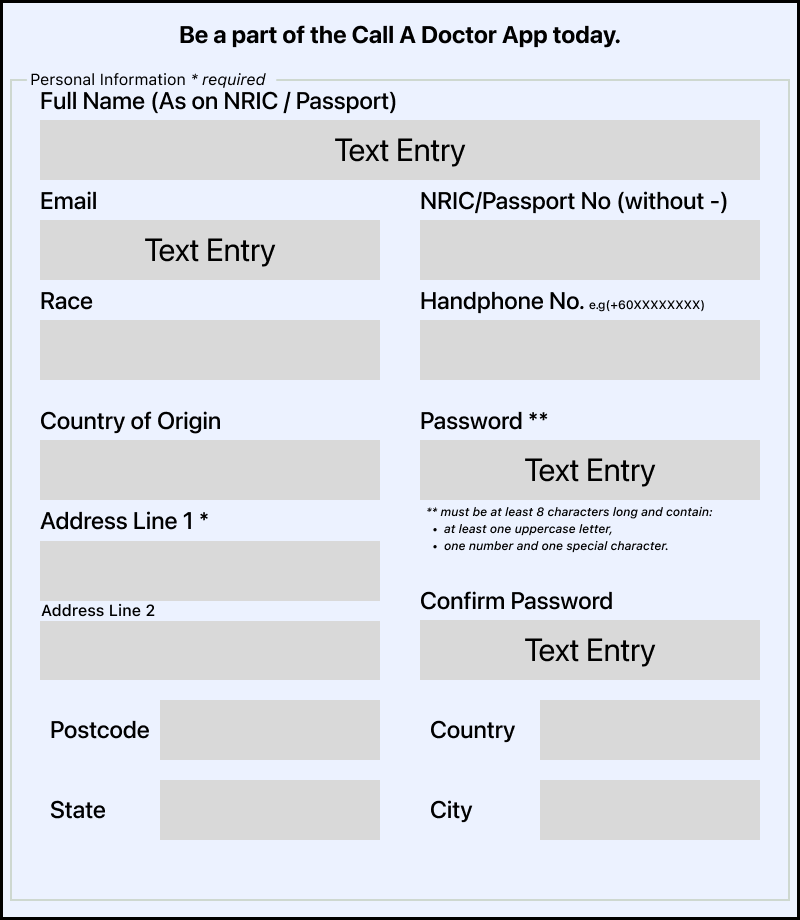
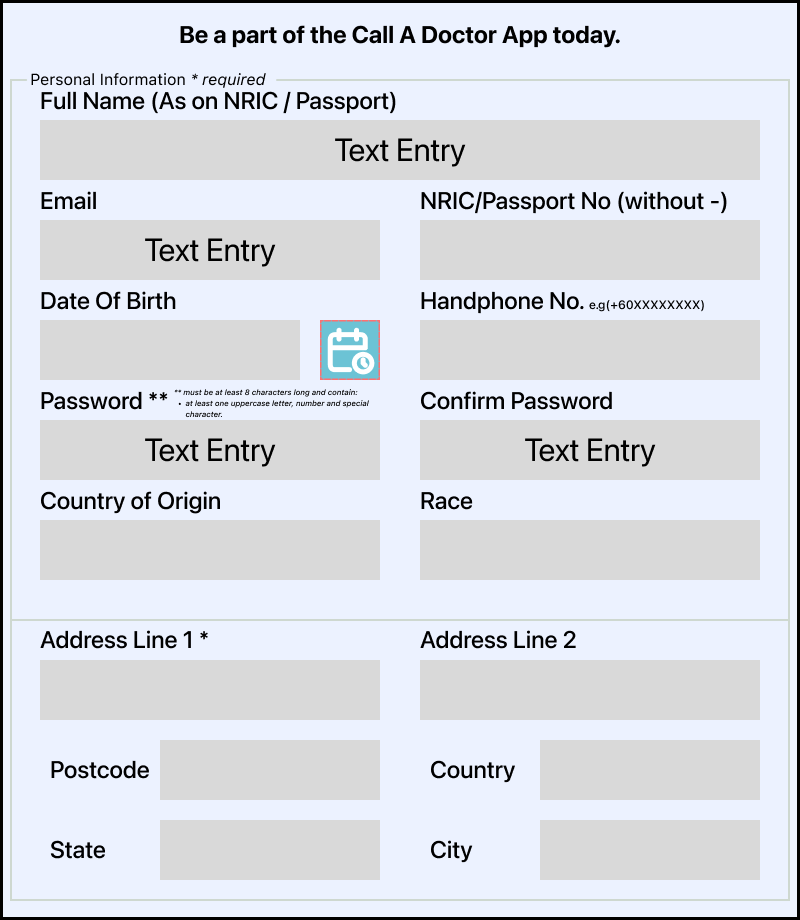
reworking registration form entries

Changed region(s): [[0.0312, 0.3348, 0.9688, 0.9739], [0.0625, 0.3043, 0.2188, 0.3348]]

diff --git a/views/registration.py b/views/registration.py
@@ -9,6 +9,8 @@ from ttkbootstrap.toast import ToastNotification
 from resource.static import *
 from resource.basewindow import ElementCreator, gridGenerator
 from views.citystatesdict import states_dict
+from ttkbootstrap.dialogs import DatePickerDialog, Querybox
+from datetime import datetime as dt
 # from components.animatedgif import AnimatedGif
 # from captcha.image import ImageCaptcha
 # from components.animatedgif import AnimatedGif
@@ -53,24 +55,35 @@ class RegistrationPage(Frame):
         ]
         self.controller.settingsUnpacker(self.staticImgLabels, "label")
         self.controller.settingsUnpacker(self.staticBtns, "button")
-
+        self.dateOfBirthEntry = self.controller.ttkEntryCreator(
+            x=40, y=320, width=260, height=60, root=self.frameref, classname="regbirthdate"
+        )
         self.userRegEntries = [
             (40, 120, 720, 60, self.frameref, "regfullname"),
             (40, 220, 340, 60, self.frameref, "regemail", "isEmail"),
-            (420, 220, 340, 60, self.frameref,
-             "regnric"),
-            (40, 320, 340, 60, self.frameref, "regrace"),
+            (420, 220, 340, 60, self.frameref, "regnric"),
+            (40, 320, 260, 60, self.frameref, "regbirthdate"),
             (420, 320, 340, 60, self.frameref, "regcontactnumber", "isContactNo"),
-            (40, 440, 340, 60, self.frameref, "countryoforigin"),
-            (420, 440, 340, 60, self.frameref, "regpassent", "isPassword"),
-            (420, 620, 340, 60, self.frameref, "regconfpassent", "isConfPass"),
-            (40, 540, 340, 60, self.frameref, "regaddressline1"),
-            (40, 620, 340, 60, self.frameref, "regaddressline2"),
-            (160, 700, 220, 60, self.frameref, "regpostcode", "isPostcode"),
+            (40, 420, 340, 60, self.frameref, "regpassent", "isPassword"),
+            (420, 420, 340, 60, self.frameref, "regconfpassent", "isConfPass"),
+            (40, 520, 340, 60, self.frameref, "countryoforigin"),
+            (420, 520, 340, 60, self.frameref, "regrace"),
+            (40, 660, 340, 60, self.frameref, "regaddressline1"),
+            (420, 660, 340, 60, self.frameref, "regaddressline2"),
+            (160, 740, 220, 60, self.frameref, "regpostcode", "isPostcode"),
         ]
         for i in self.userRegEntries:
             self.controller.ttkEntryCreator(**self.tupleToDict(i))
         WD = self.controller.widgetsDict
+        self.datePicker = self.controller.buttonCreator(
+            ipath="assets/Registration/DatePicker.png",
+            x=320, y=320, classname="datepicker", root=self.frameref,
+            buttonFunction=lambda: self.selectDate(self.datePicker)
+        )
+
+        self.dobMsg = "Select Date of Birth"
+        self.dateOfBirthEntry.insert(0, self.dobMsg)
+        self.dateOfBirthEntry.config(state=READONLY)
         self.fullname, self.email, self.nric_passno = WD["regfullname"], WD["regemail"], WD["regnric"]
         self.race, self.contactnumber, self.countryoforigin = WD[
             "regrace"], WD["regcontactnumber"], WD["countryoforigin"]
@@ -80,7 +93,7 @@ class RegistrationPage(Frame):
         self.country, self.state, self.city = StringVar(), StringVar(), StringVar()
         list = {
             "country": {
-                "pos": {"x": 540, "y": 700, "width": 220, "height": 60},
+                "pos": {"x": 540, "y": 740, "width": 220, "height": 60},
                 "listofvalues": ["Malaysia", "Others"],
                 "variable": self.country,
             }
@@ -92,6 +105,37 @@ class RegistrationPage(Frame):
                 variable=v["variable"], font=("Helvetica", 12),
                 command=lambda: [self.loadStateMenubuttons(self.country.get())]
             )
+
+    def selectDate(self, btn):
+        self.dateOfBirthEntry.configure(foreground="black")
+        year = Querybox.get_integer(
+            parent=btn, title="Enter Year", minvalue=1900, maxvalue=2023, initialvalue=2023,
+            prompt="Please enter birth year, to aid in adjustment, left-click the arrow to move the calendar by one month. Right-click the arrow to move the calendar by one year or right-click the title to reset the calendar to the start date."
+        )
+        if year is None:
+            self.dateOfBirthEntry.configure(foreground="red")
+            return
+        dateTimeYear = dt.strptime(f"{year}", "%Y")
+        dialog = DatePickerDialog(
+            parent=btn, title="Select Date", firstweekday=0, startdate=dateTimeYear
+        )
+        if dialog.date_selected is None:
+            print('test')
+            return
+        if dialog.date_selected.year > dt.now().year or dialog.date_selected.year < 1900:
+            toast = ToastNotification(
+                title="Error",
+                message="Please select a valid date of birth between 1900 and the current year",
+                duration=3000,
+                bootstyle="danger"
+            )
+            toast.show_toast()
+            return
+        date = dialog.date_selected.strftime("%d/%m/%Y")
+        self.dateOfBirthEntry.configure(state=NORMAL)
+        self.dateOfBirthEntry.delete(0, END)
+        self.dateOfBirthEntry.insert(0, date)
+        self.dateOfBirthEntry.configure(state=READONLY)
 
     def loadStateMenubuttons(self, name):
         # remove all widgets and refresh options
@@ -113,7 +157,7 @@ class RegistrationPage(Frame):
         for var in [self.state, self.city]:
             var.set("")
         positions = {
-            "state": {"x": 160, "y": 780, "width": 220, "height": 60},
+            "state": {"x": 160, "y": 820, "width": 220, "height": 60},
         }
         if not self.country.get() == "Malaysia":
             return
@@ -136,7 +180,7 @@ class RegistrationPage(Frame):
         for var in [self.city]:
             var.set("")
         positions = {
-            "city": {"x": 540, "y": 780, "width": 220, "height": 60},
+            "city": {"x": 540, "y": 820, "width": 220, "height": 60},
         }
         citieslist = list(states_dict[f"{state}"])
         self.controller.menubuttonCreator(

diff --git a/resource/basewindow.py b/resource/basewindow.py
@@ -335,10 +335,18 @@ class ElementCreator(ttk.Window):
         menustyle = ttk.Style()
         menustyle.configure(
             style=themename, font=("Helvetica", 10),
-            background="#F9F5EB", foreground=BLACK,
+            background="#FFFFFF", foreground=BLACK,
             bordercolor="#78c2ad",
             relief="raised",
         )
+        print(themename)
+        if themename == "registrationformframe.TMenubutton":
+            menustyle.configure(style=themename, background=WHITE,
+                                foreground=BLACK, bordercolor="#78c2ad",
+                                font=("Helvetica", 12))
+            menustyle.map(themename, foreground=[('active', BLACK), ("disabled", BLACK)],
+                          background=[('active', "#ffe3bd"), ("disabled", "#ffe3bd")])
+
         if themename == "apptcreateframe.TMenubutton":
             menustyle.configure(style=themename, background=LIGHTPURPLE,
                                 foreground=BLACK, bordercolor=LIGHTPURPLE,
